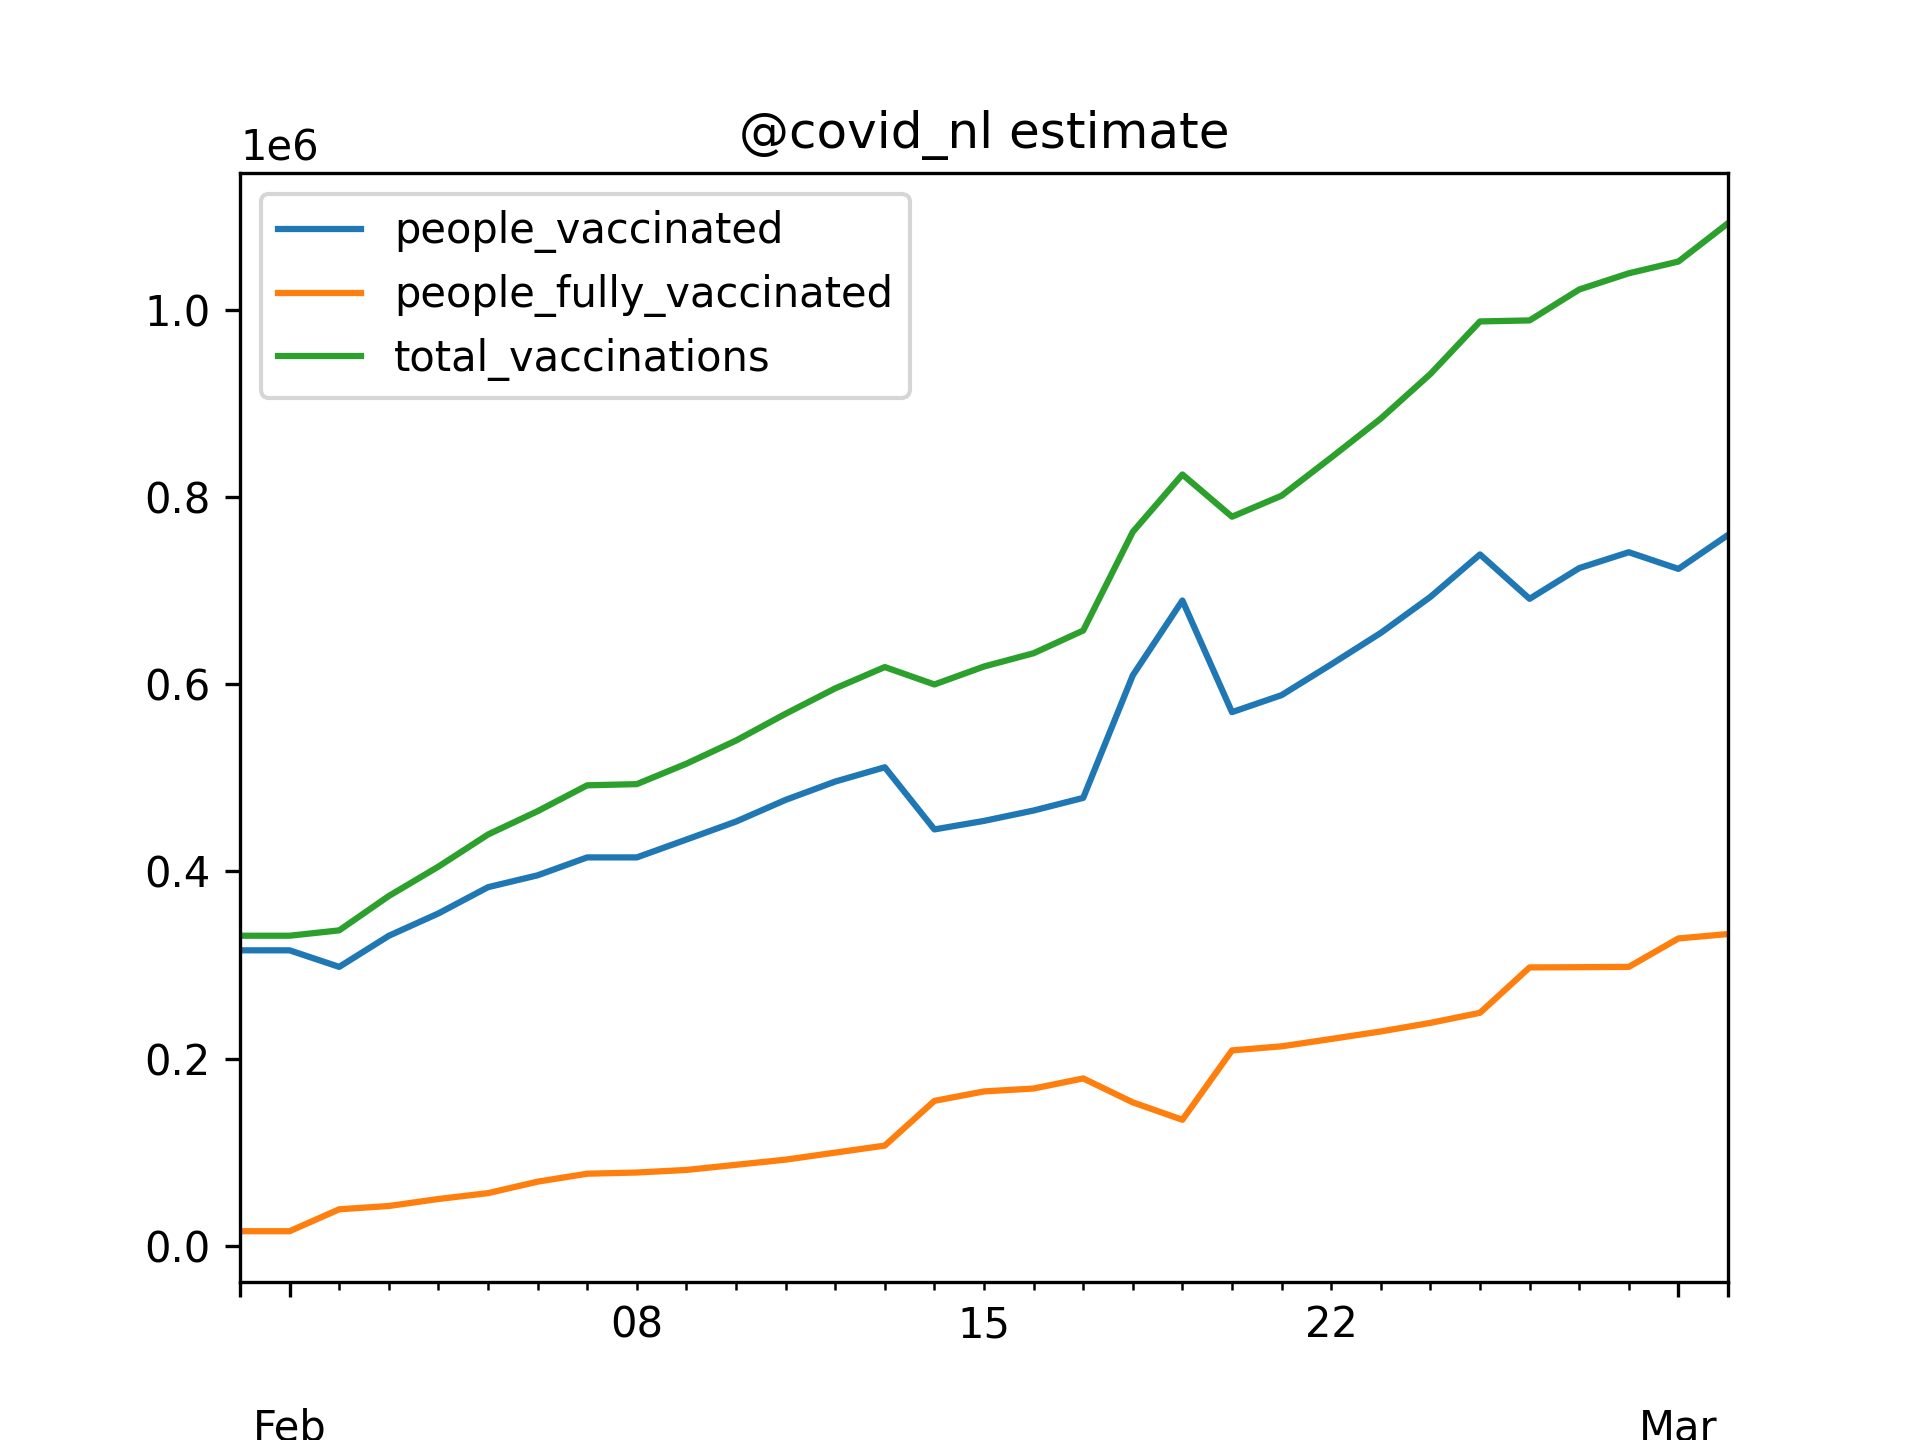
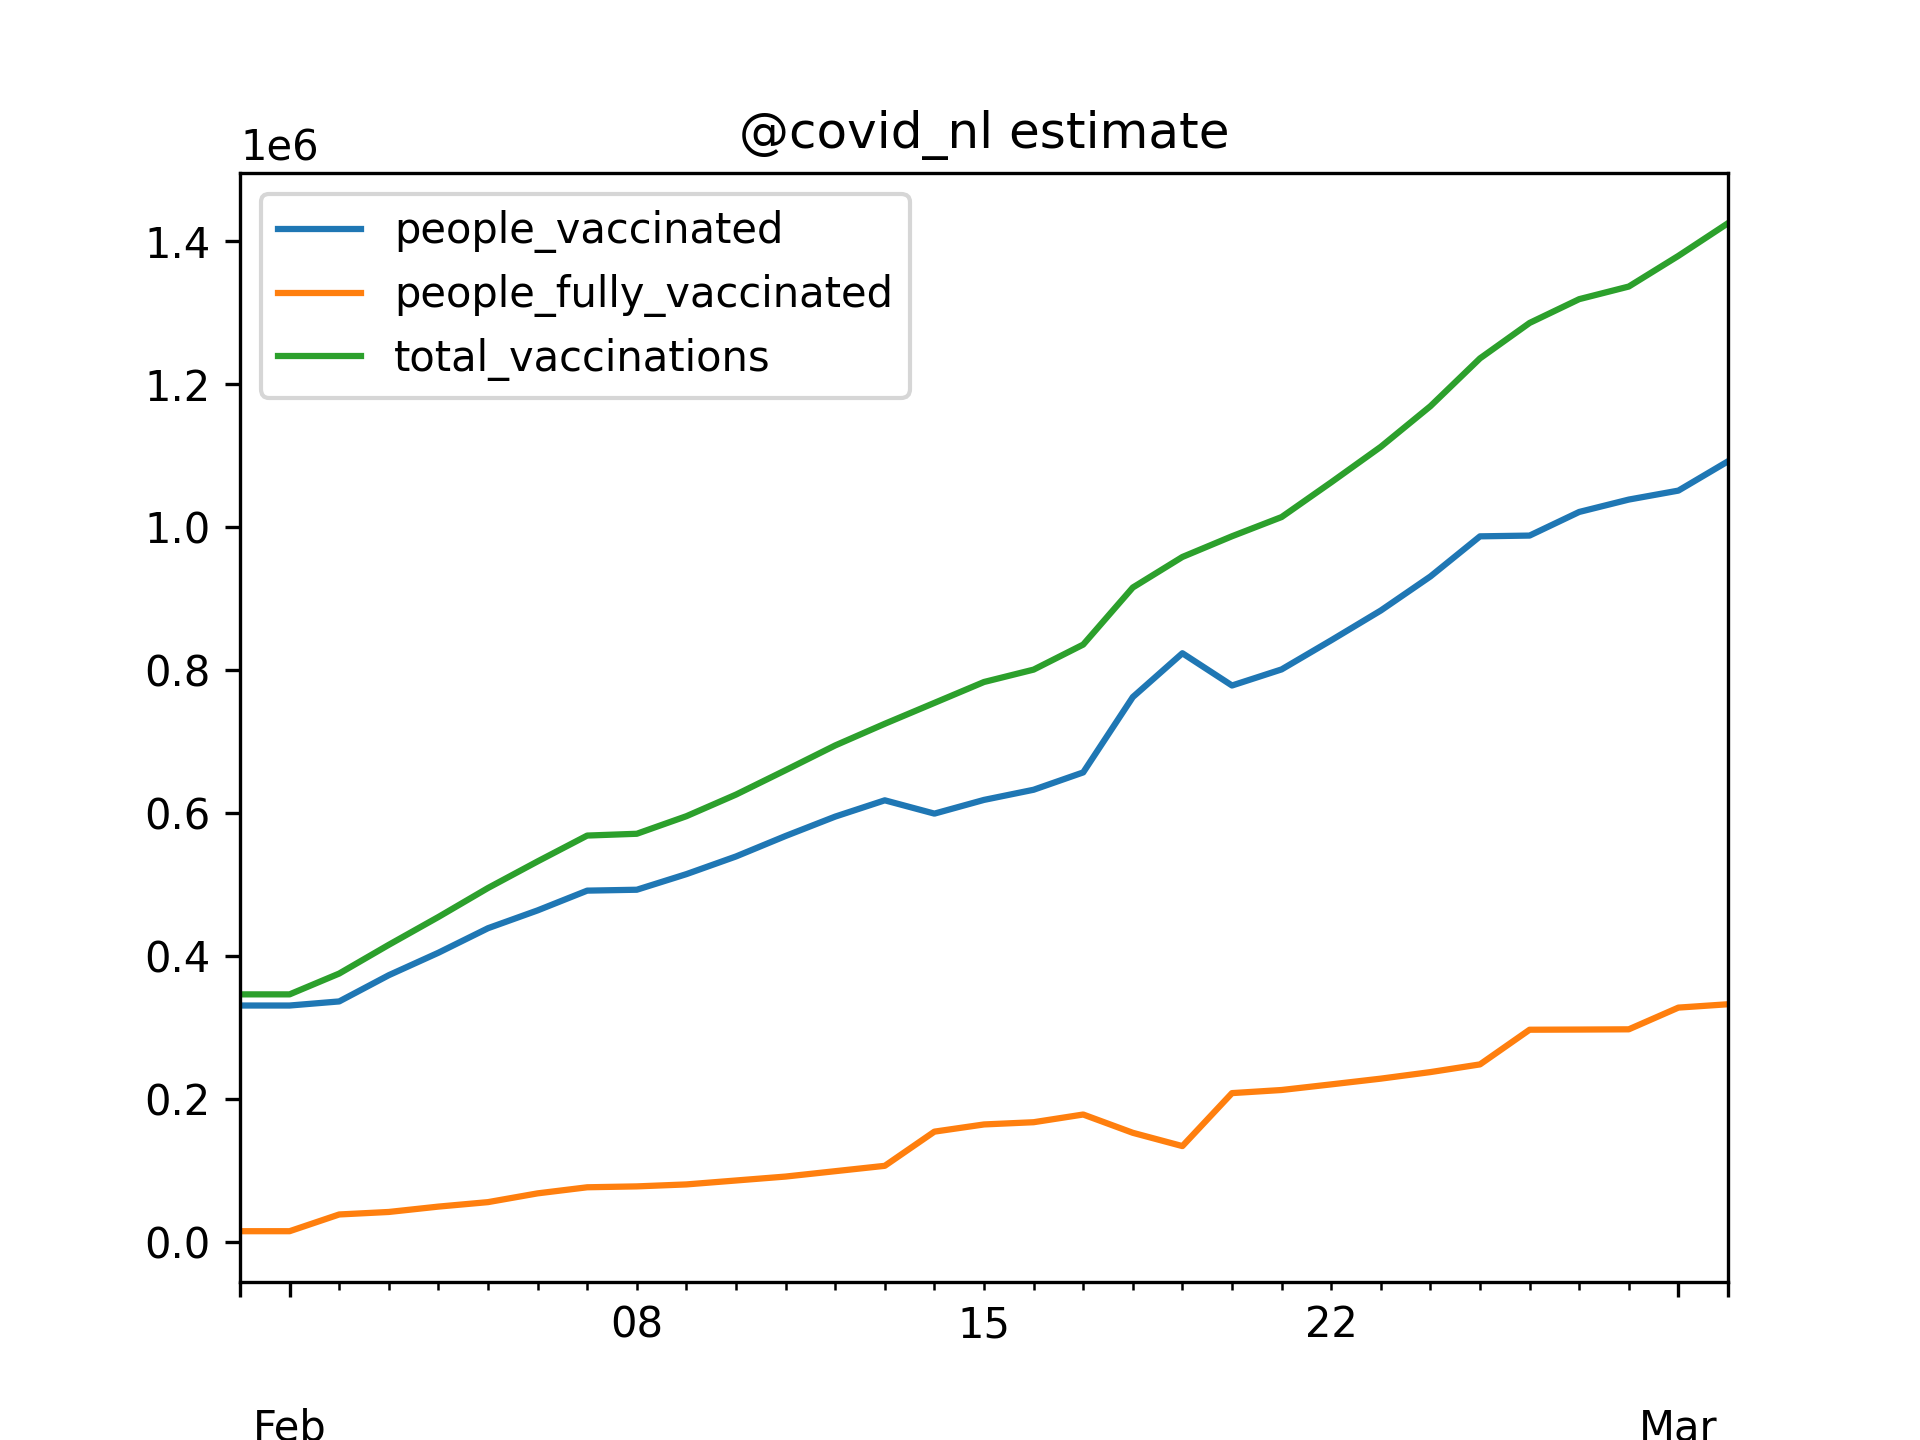
Various fixes

diff --git a/src/scrapers/kalahiri.py b/src/scrapers/kalahiri.py
@@ -2,6 +2,10 @@ import pandas as pd
 import requests
 import pandas as pd
 from pathlib import Path
+import matplotlib as mpl
+
+mpl.rcParams['figure.dpi'] = 300
+
 
 req = requests.get('https://www.corona-lokaal.nl/getvaccines.php')
 req.raise_for_status()
@@ -11,22 +15,24 @@ data = req.json()['NL']
 # Dutch number format to machine-readable
 for k, v in data.items():
     data[k] = v.replace('.', '').replace(',', '.')
-  
+    
+
 cols = ['persons_fully_vaccinated', 'persons_single_dose']
 df = pd.DataFrame.from_dict(data, orient='index').T.set_index('date')[cols]
 df.index = [x.replace(year=2021) for x in pd.to_datetime(df.index, format='%d/%m')]
-df.index = df.index - pd.Timedelta(days=1)
 
 df = df.rename(columns={
     'persons_fully_vaccinated': 'people_fully_vaccinated',
-    'persons_single_dose': 'people_vaccinated',
+    #'persons_single_dose': 'people_vaccinated',
 })
 
 df = df.astype(float)
+df['people_vaccinated'] = df[['people_fully_vaccinated', 'persons_single_dose']].sum(axis=1)
+df = df.drop(columns=['persons_single_dose'])
 df['total_vaccinations'] = df.sum(axis=1)
 df = df.astype(pd.Int64Dtype())
 
-outdir = Path('data/models')
+outdir = Path('')
 outfile = outdir / 'kalahiri.csv'
 
 if outfile.exists():

diff --git a/src/scrapers/covid_nl.py b/src/scrapers/covid_nl.py
@@ -12,7 +12,7 @@ csvfiles = [csvfile.name for csvfile in r.get_contents("data/vaccine_estimate/da
 
 baseurl = 'https://raw.githubusercontent.com/Sikerdebaard/opencoronastats/master/data/vaccine_estimate/daily_estimates/'
 
-cols = ['vaccinated', 'fully_vaccinated', 'single_dose_vaccinated']
+cols = ['vaccinated', 'fully_vaccinated']
 df_estimates = pd.DataFrame(index=pd.to_datetime([]))
 for csvfile in csvfiles:
     if 'vaccinated-estimate' not in csvfile:
@@ -34,11 +34,11 @@ df_estimates = df_estimates.sort_index().resample('D').last().ffill().round(0)
 df_estimates = df_estimates.astype(pd.Int64Dtype())
 
 df_estimates = df_estimates.rename(columns={
-    'vaccinated': 'total_vaccinations',
+    'vaccinated': 'people_vaccinated',
     'fully_vaccinated': 'people_fully_vaccinated',
-    'single_dose_vaccinated': 'people_vaccinated',
 })
 
+df_estimates['total_vaccinations'] = df_estimates.sum(axis=1)
 
 outdir = Path('data/models')
 outfile = outdir / 'covid_nl.csv'
